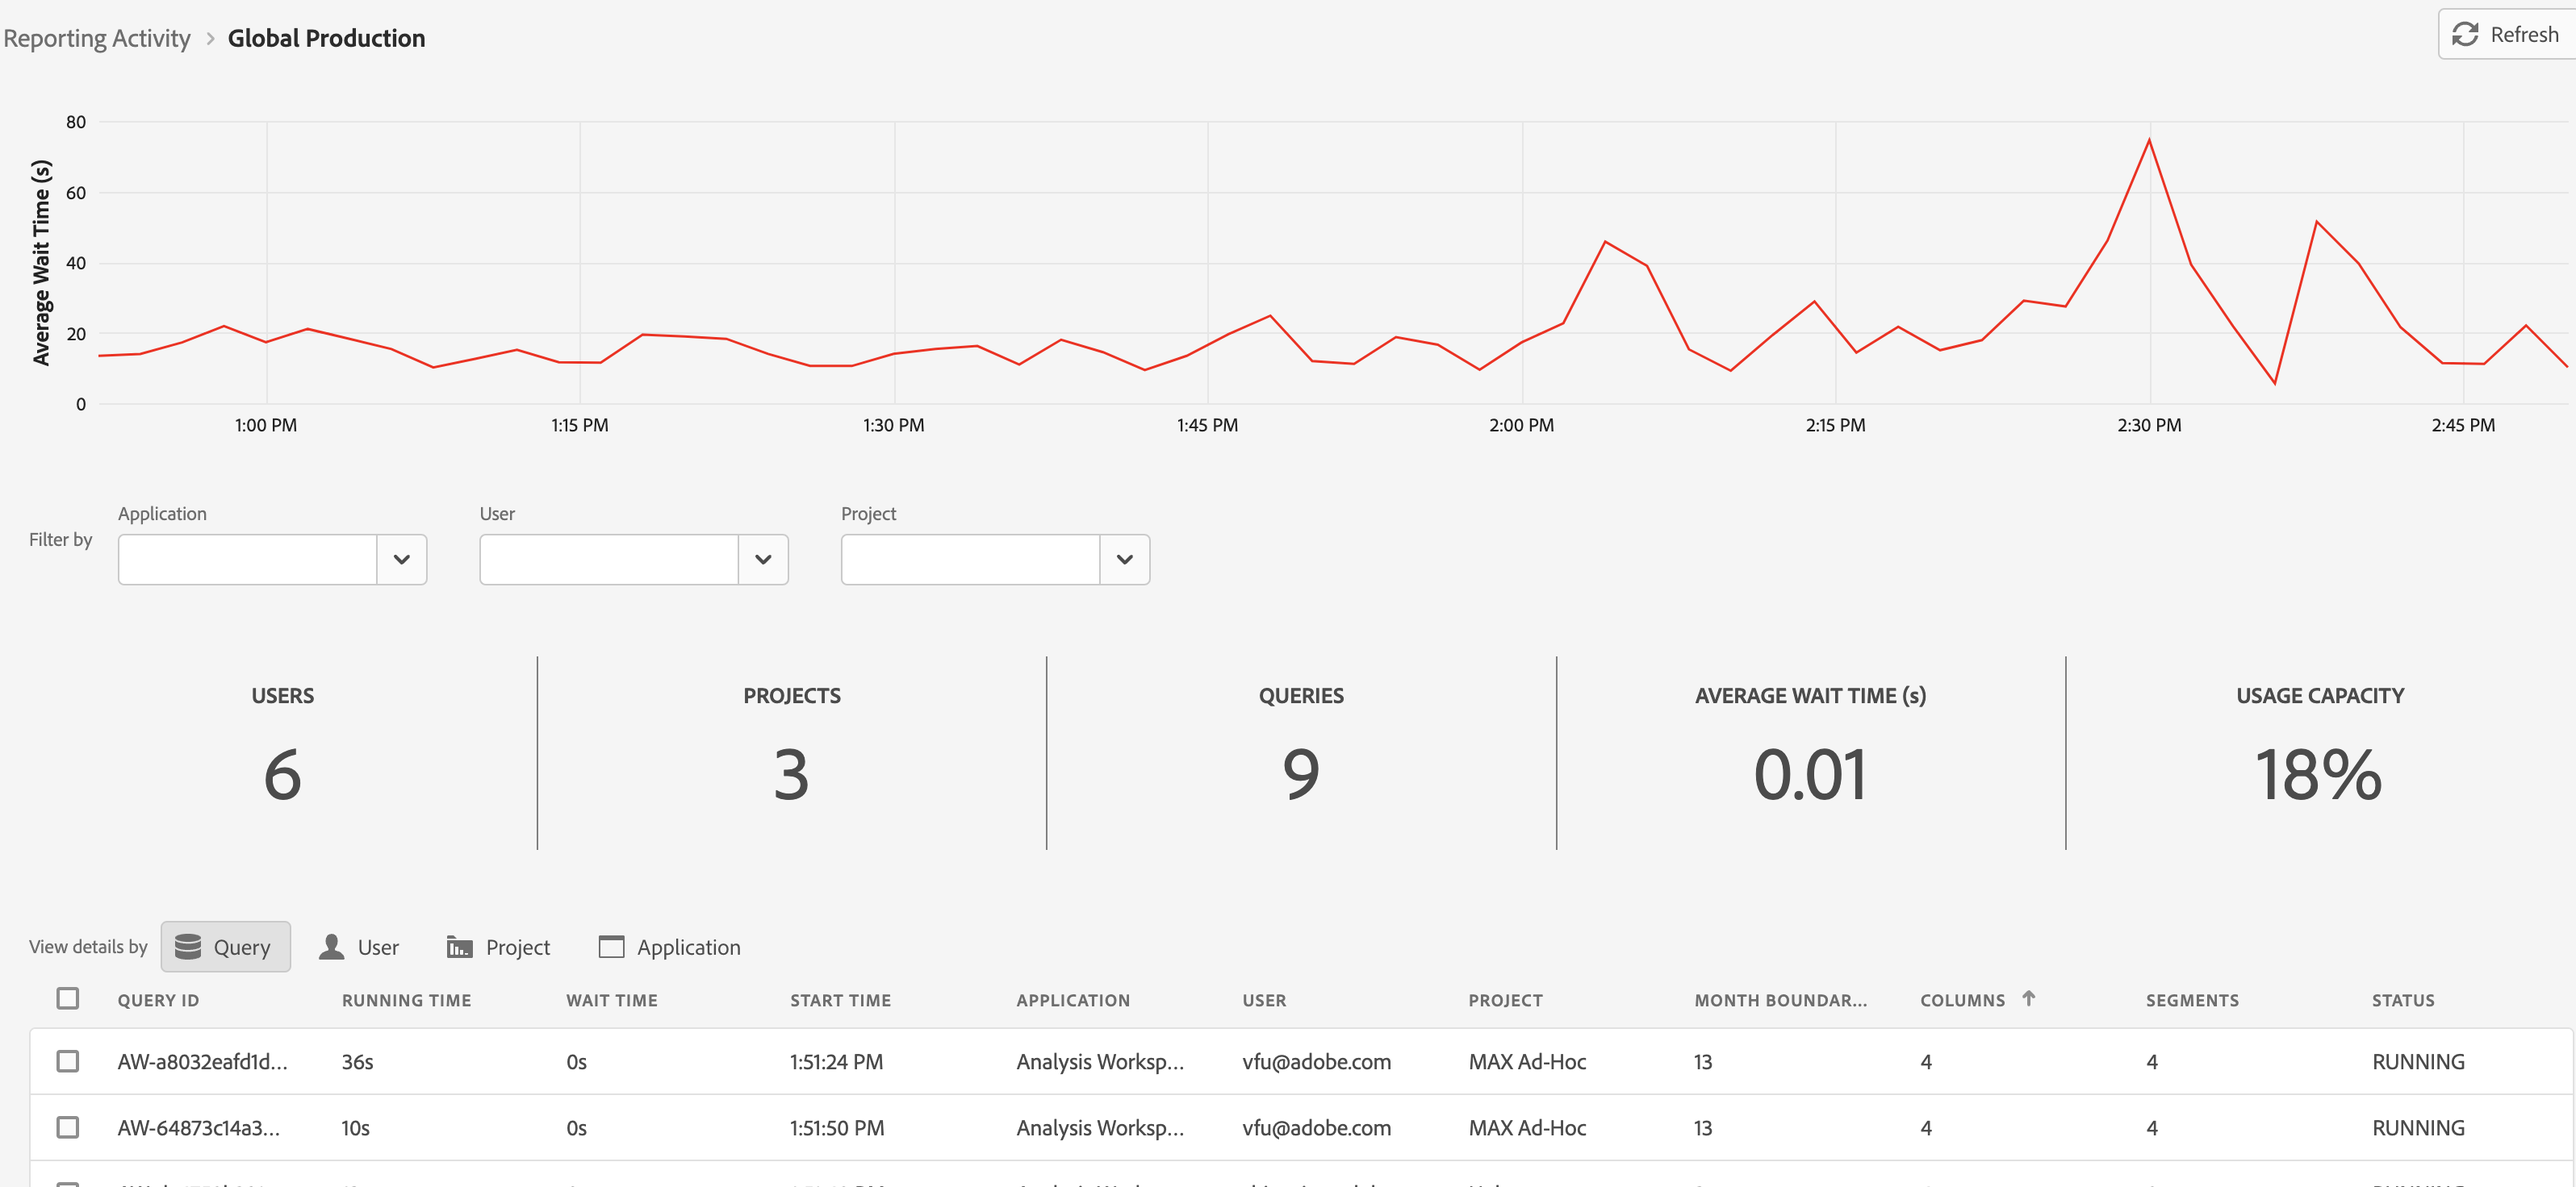
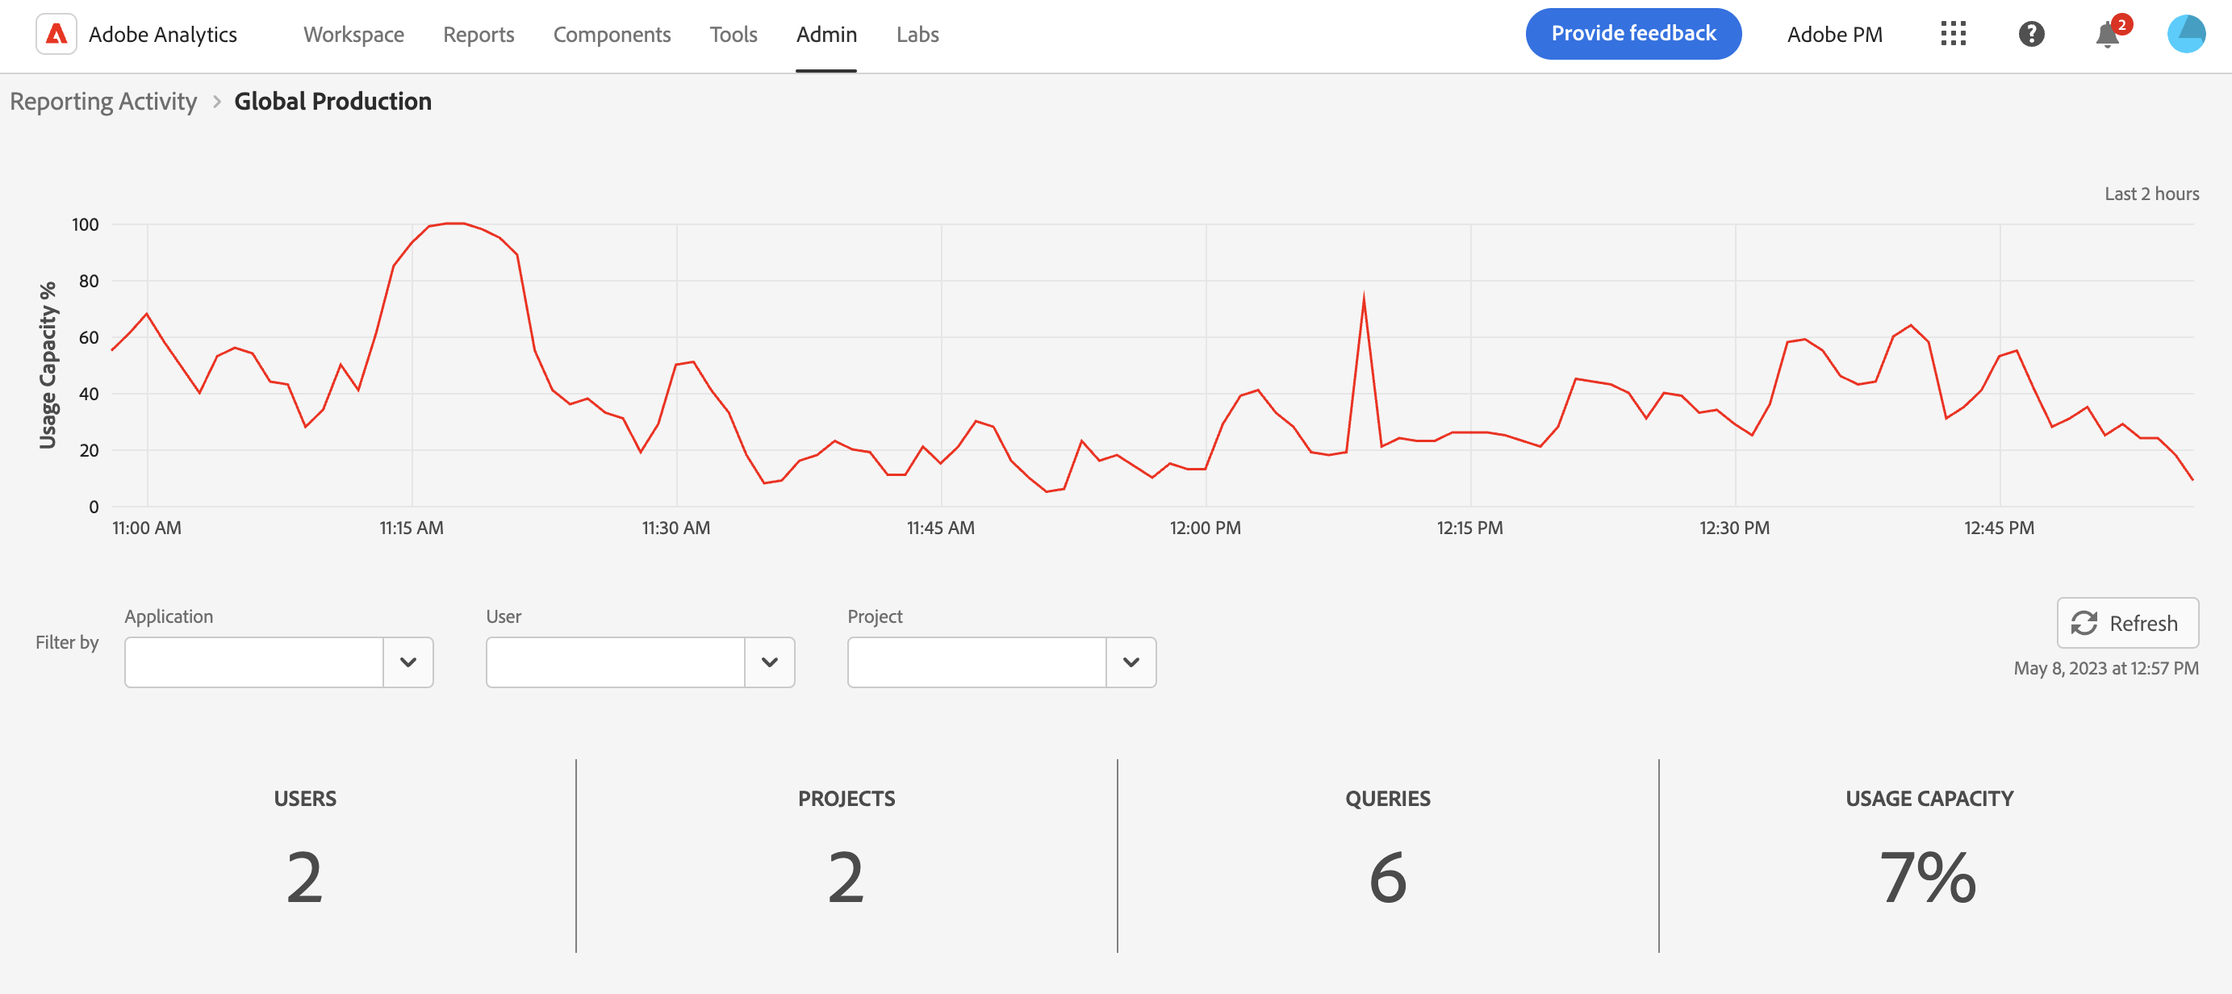
updates from Amanda

diff --git a/help/admin/admin/reporting-activity.md b/help/admin/admin/reporting-activity.md
@@ -7,15 +7,13 @@ exl-id: f638c6a9-1c2c-4936-a787-281269f95afc
 ---
 # Reporting Activity Manager
 
->[!NOTE]
->
->This functionality is currently in beta testing.
+{{release-limited-testing}}
 
 The [!UICONTROL Reporting Activity Manager] lets you see the reporting capacity for each report suite in your organization. It provides you, as an Admin, with detailed visibility into reporting consumption and helps you easily diagnose and fix capacity issues during peak reporting times. 
 
 When your organization reaches reporting request capacity and experiences a degradation in reporting performance, you now have a way to self-diagnose reporting issues without intervention from Adobe customer care or engineering. You can easily manage reporting queues within a single interface and immediately act to improve your users' experience. This tool:
 
-* Informs you, in real time, about your current reporting capacity  across your report suites.
+* Informs you, in real time, about your current reporting capacity across your report suites.
 * Provides detailed report query information on current reporting requests, whether queued or in progress.
 * Lets you optimize the reporting queue by prioritizing some and canceling other reporting requests to free up capacity. In other words, you can ask in real time: is this report necessary at this time or can I cancel it in favor of more urgent reports?
 
@@ -58,13 +56,13 @@ Click the title link of a report suite for which you want to view details.
 
 ![report suite](/help/admin/admin/assets/indiv-report-ste.png)
 
-### Line graph
+### Line graph {#line}
 
 The line graph shows the reporting activity for the selected report suite over the last 2 hours. 
 
 * The x-axis shows the reporting capacity data over the last 2 hours.
-* The y-axis shows the average wait time for a query, in seconds.
-* You can hover over the line chart to view points in time and average wait time for that instant.
+* The y-axis shows the reporting usage capacity % for the selected report suite, by minute.
+* You can hover over the line chart to view points in time where the usage capacity % represented will be the highest % for that minute.
 
    ![detail](/help/admin/admin/assets/detail.png)
 
@@ -74,7 +72,7 @@ You can filter the table by Application (see list in the table below), by User, 
 
 ![filter](/help/admin/admin/assets/filter.png)
 
-### Summary Numbers
+### Summary Numbers {#summary}
 
 ![filter](/help/admin/admin/assets/summary_numbers.png)
 
@@ -90,7 +88,7 @@ The Summary Numbers show the following information:
 
 {style="table-layout:auto"}
 
-### Table
+### Table on report suite details {#details}
 
 The detailed table below shows details on the report suite.
 
@@ -110,7 +108,7 @@ The detailed table below shows details on the report suite.
 
 {style="table-layout:auto"}
 
-## Cancel reporting requests
+## Cancel reporting requests {#cancel}
 
 To cancel a request 
 
@@ -127,7 +125,7 @@ Application users in Workspace, for example, will see the following notice appea
 
 ![cancel-user-notice](/help/admin/admin/assets/cancel-user-facing.png)
 
-## Frequently asked questions
+## Frequently asked questions {#faq}
 
 | Question | Answer |
 | --- | --- |
